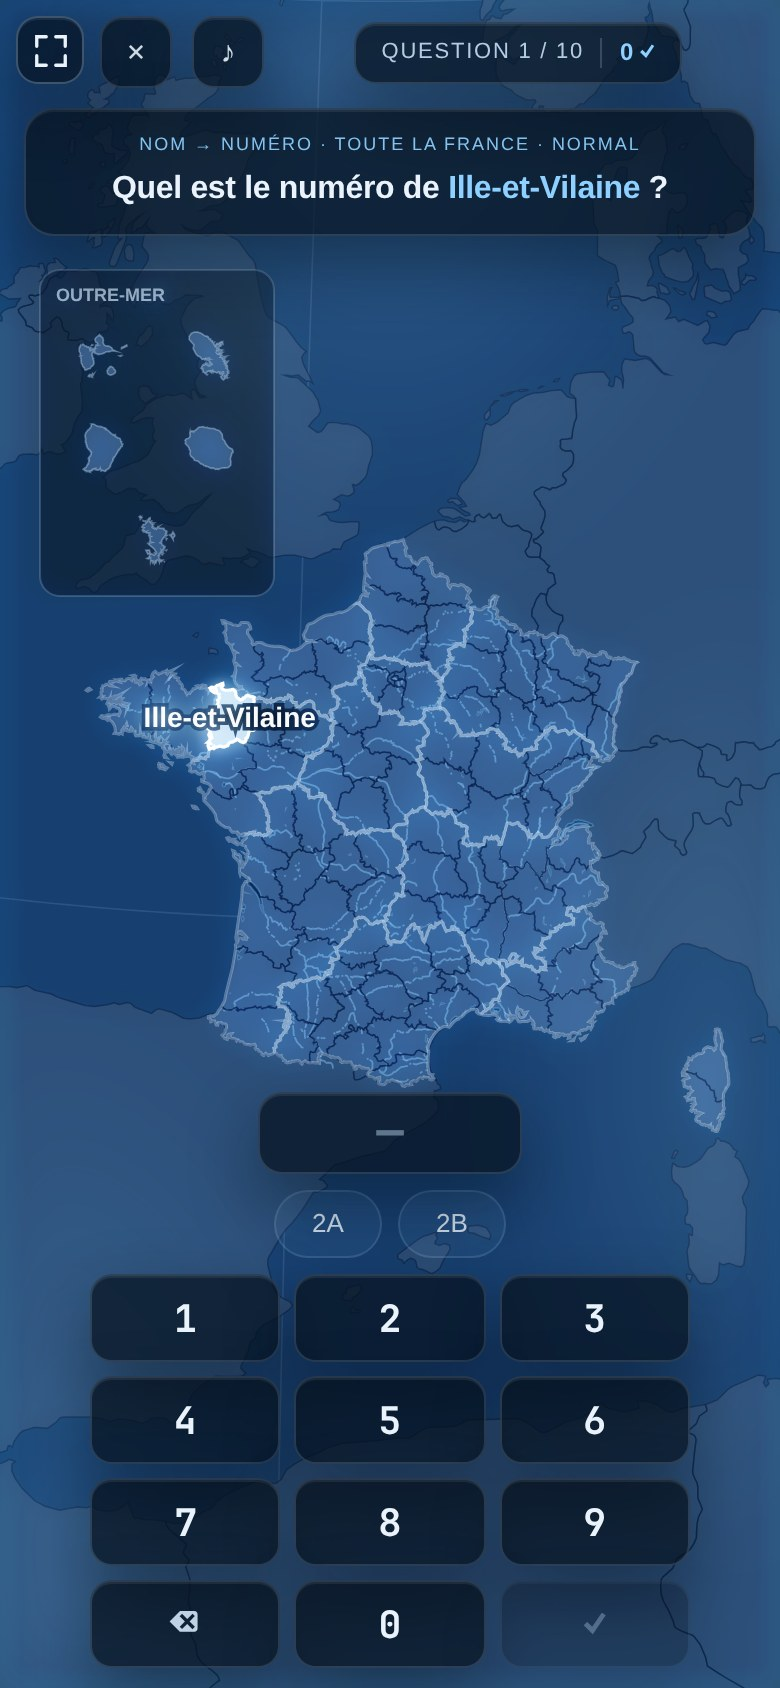
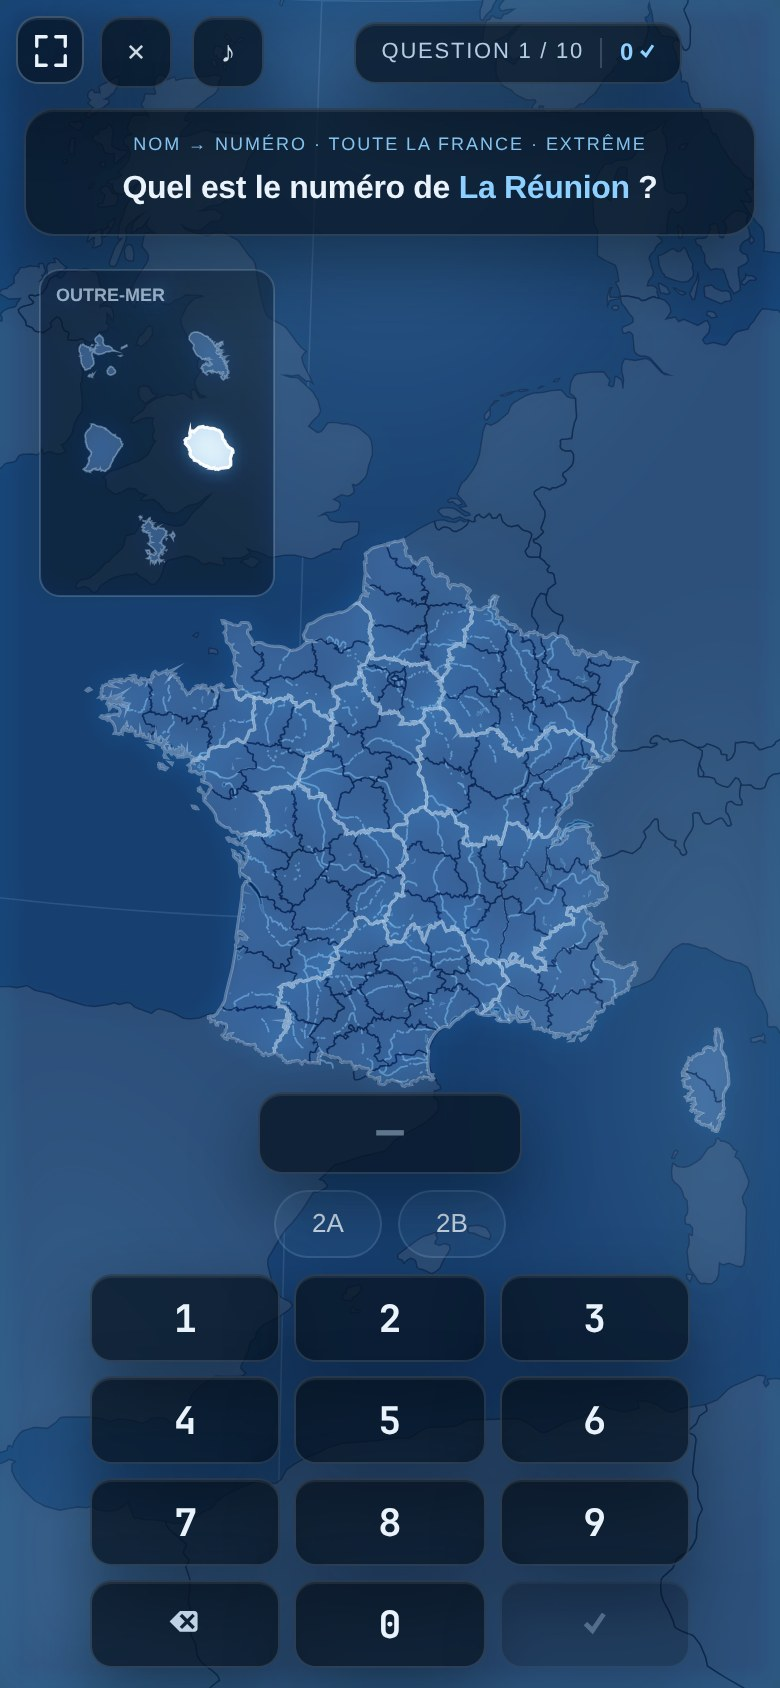
README: the Extreme card, photographed

Changed region(s): [[0.1538, 0.0616, 0.8615, 0.1232], [0.1846, 0.4005, 0.4, 0.4621], [0.2154, 0.2464, 0.3077, 0.2773]]

diff --git a/README.md b/README.md
@@ -1116,11 +1116,16 @@ Three properties, each a trap worth naming:
 <img src="docs/screens/fr-inset-numbers-desktop.jpg" width="620" alt="The overseas inset in the Atlantic, numbers on, the rest of France numbered on the map">
 </p>
 
-**Name → number is typed**, and the answers stay on the map in green and red:
+**Name → number**: the QCM at the three regular difficulties, a keypad at **Extreme** —
+and the answers stay on the map in green and red:
 
 <p align="center">
-<img src="docs/screens/fr-pad-phone.jpg" width="186" alt="The number pad on a phone: a display, the two Corsican shortcuts, and a dialler">
+<img src="docs/screens/fr-pad-phone.jpg" width="186" alt="Extreme: the dialler on a phone, with the two Corsican shortcuts above it">
 <img src="docs/screens/fr-marks-desktop.jpg" width="620" alt="A correct answer keeping its green on the map, the region's framing kept">
+</p>
+
+<p align="center">
+<img src="docs/screens/fr-diffs-phone.jpg" width="186" alt="Four difficulty cards on name to number: easy, normal, hard, extreme">
 </p>
 
 ### The overlay: `data/fr/` on top of the world
